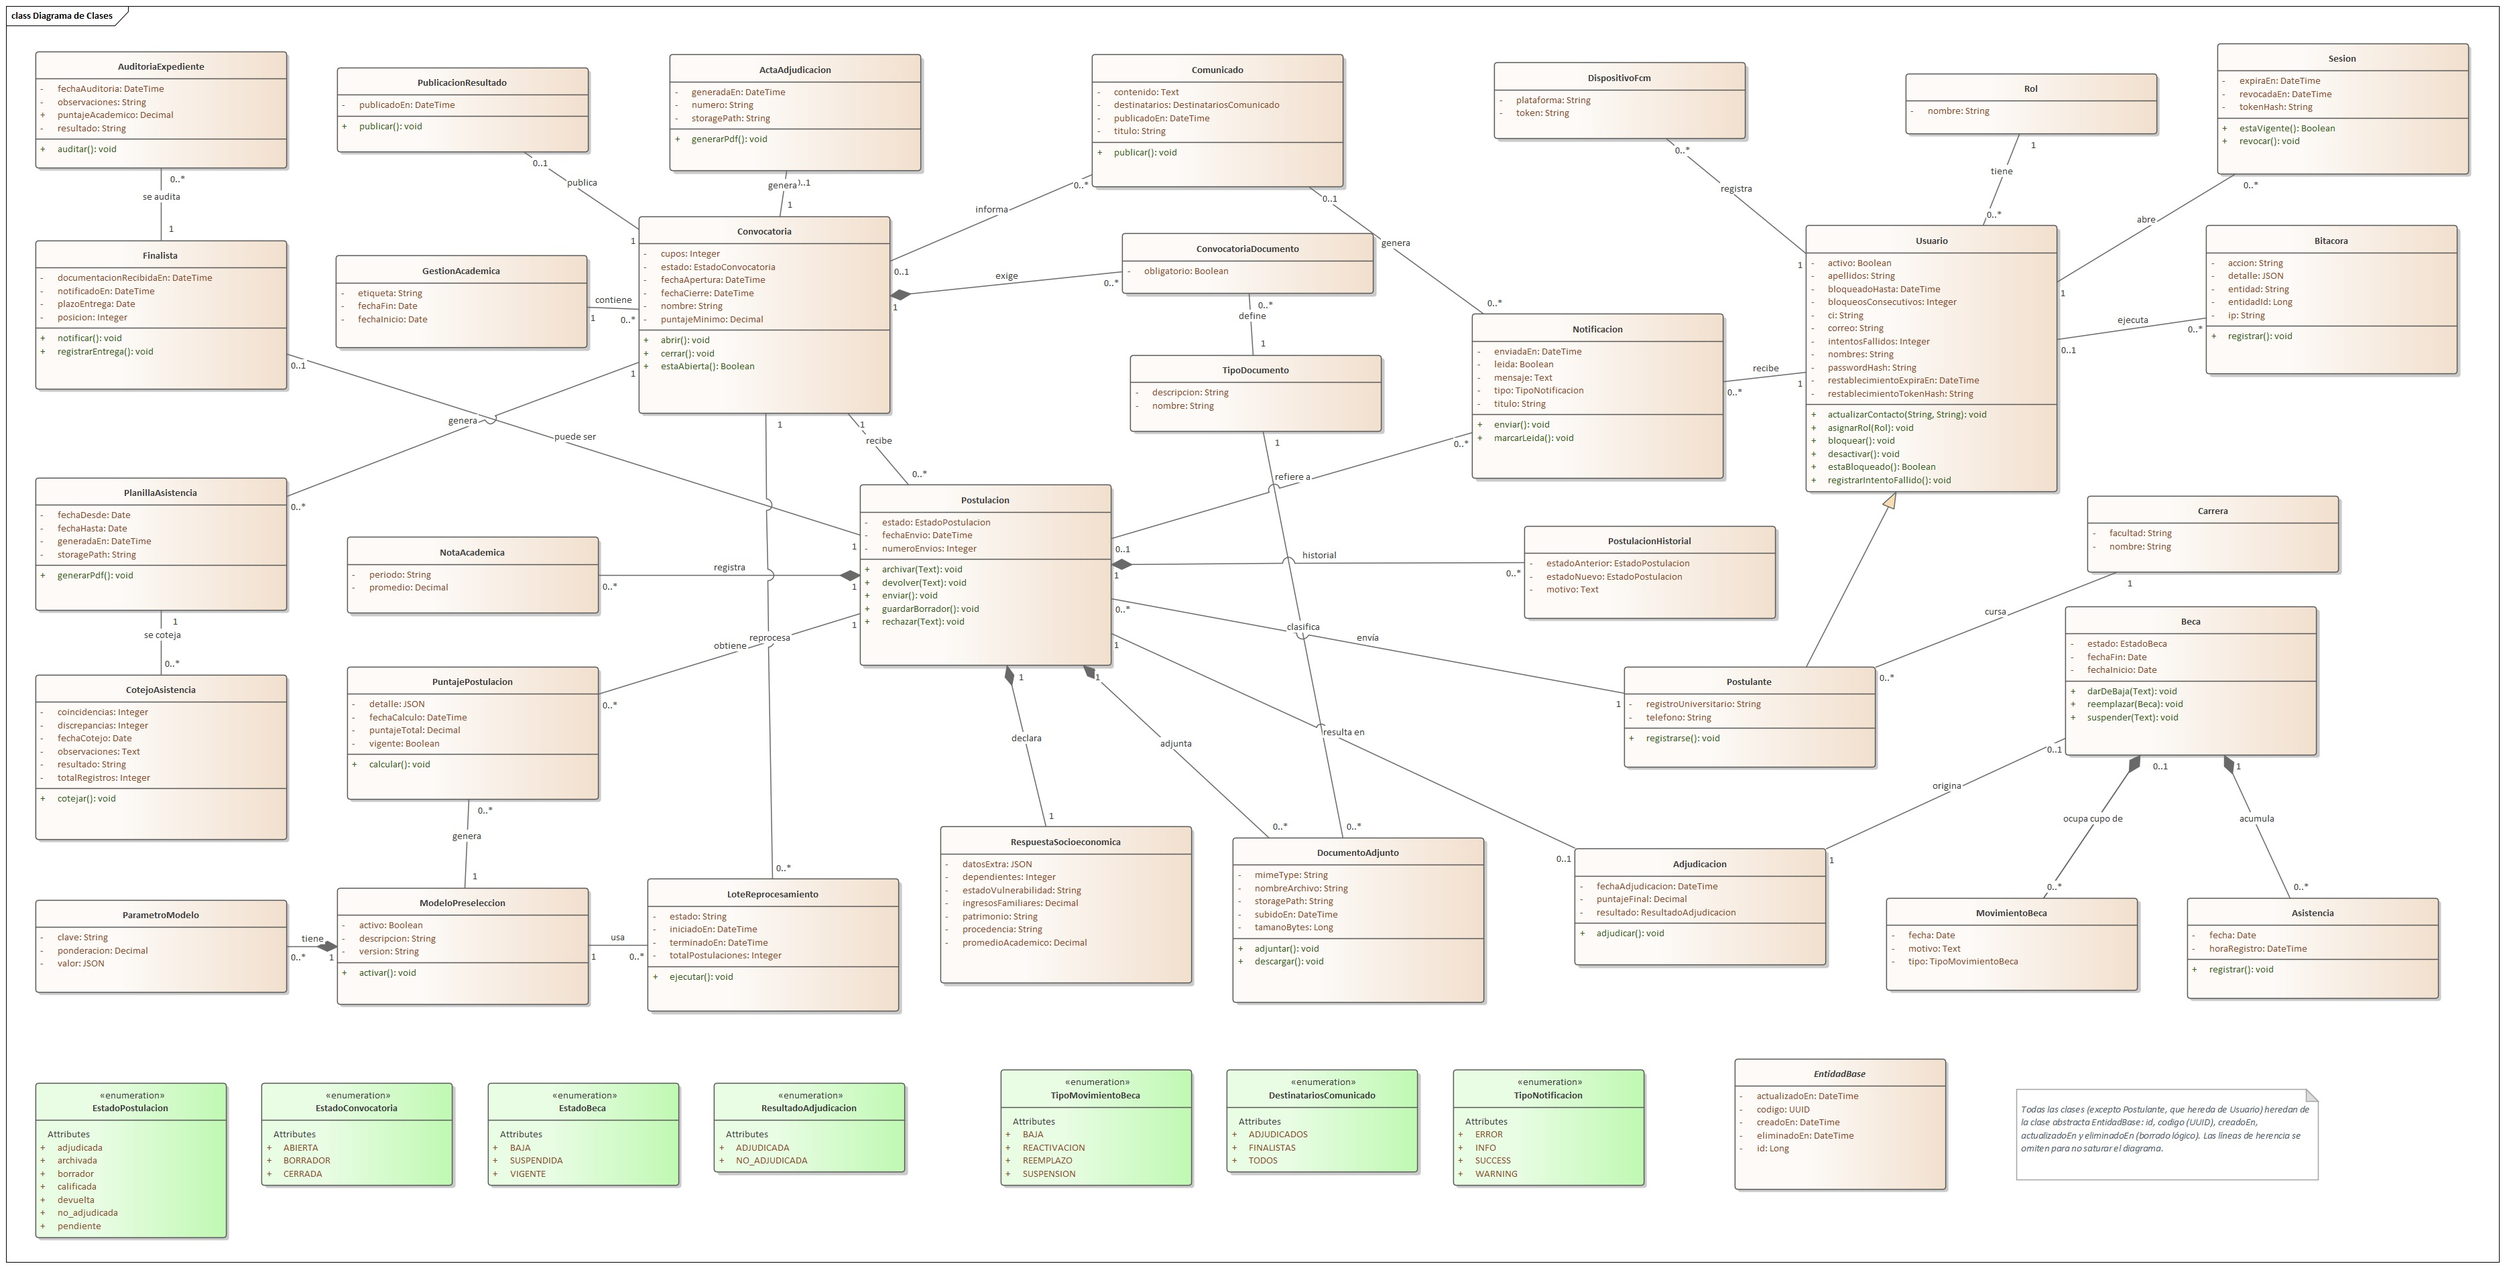
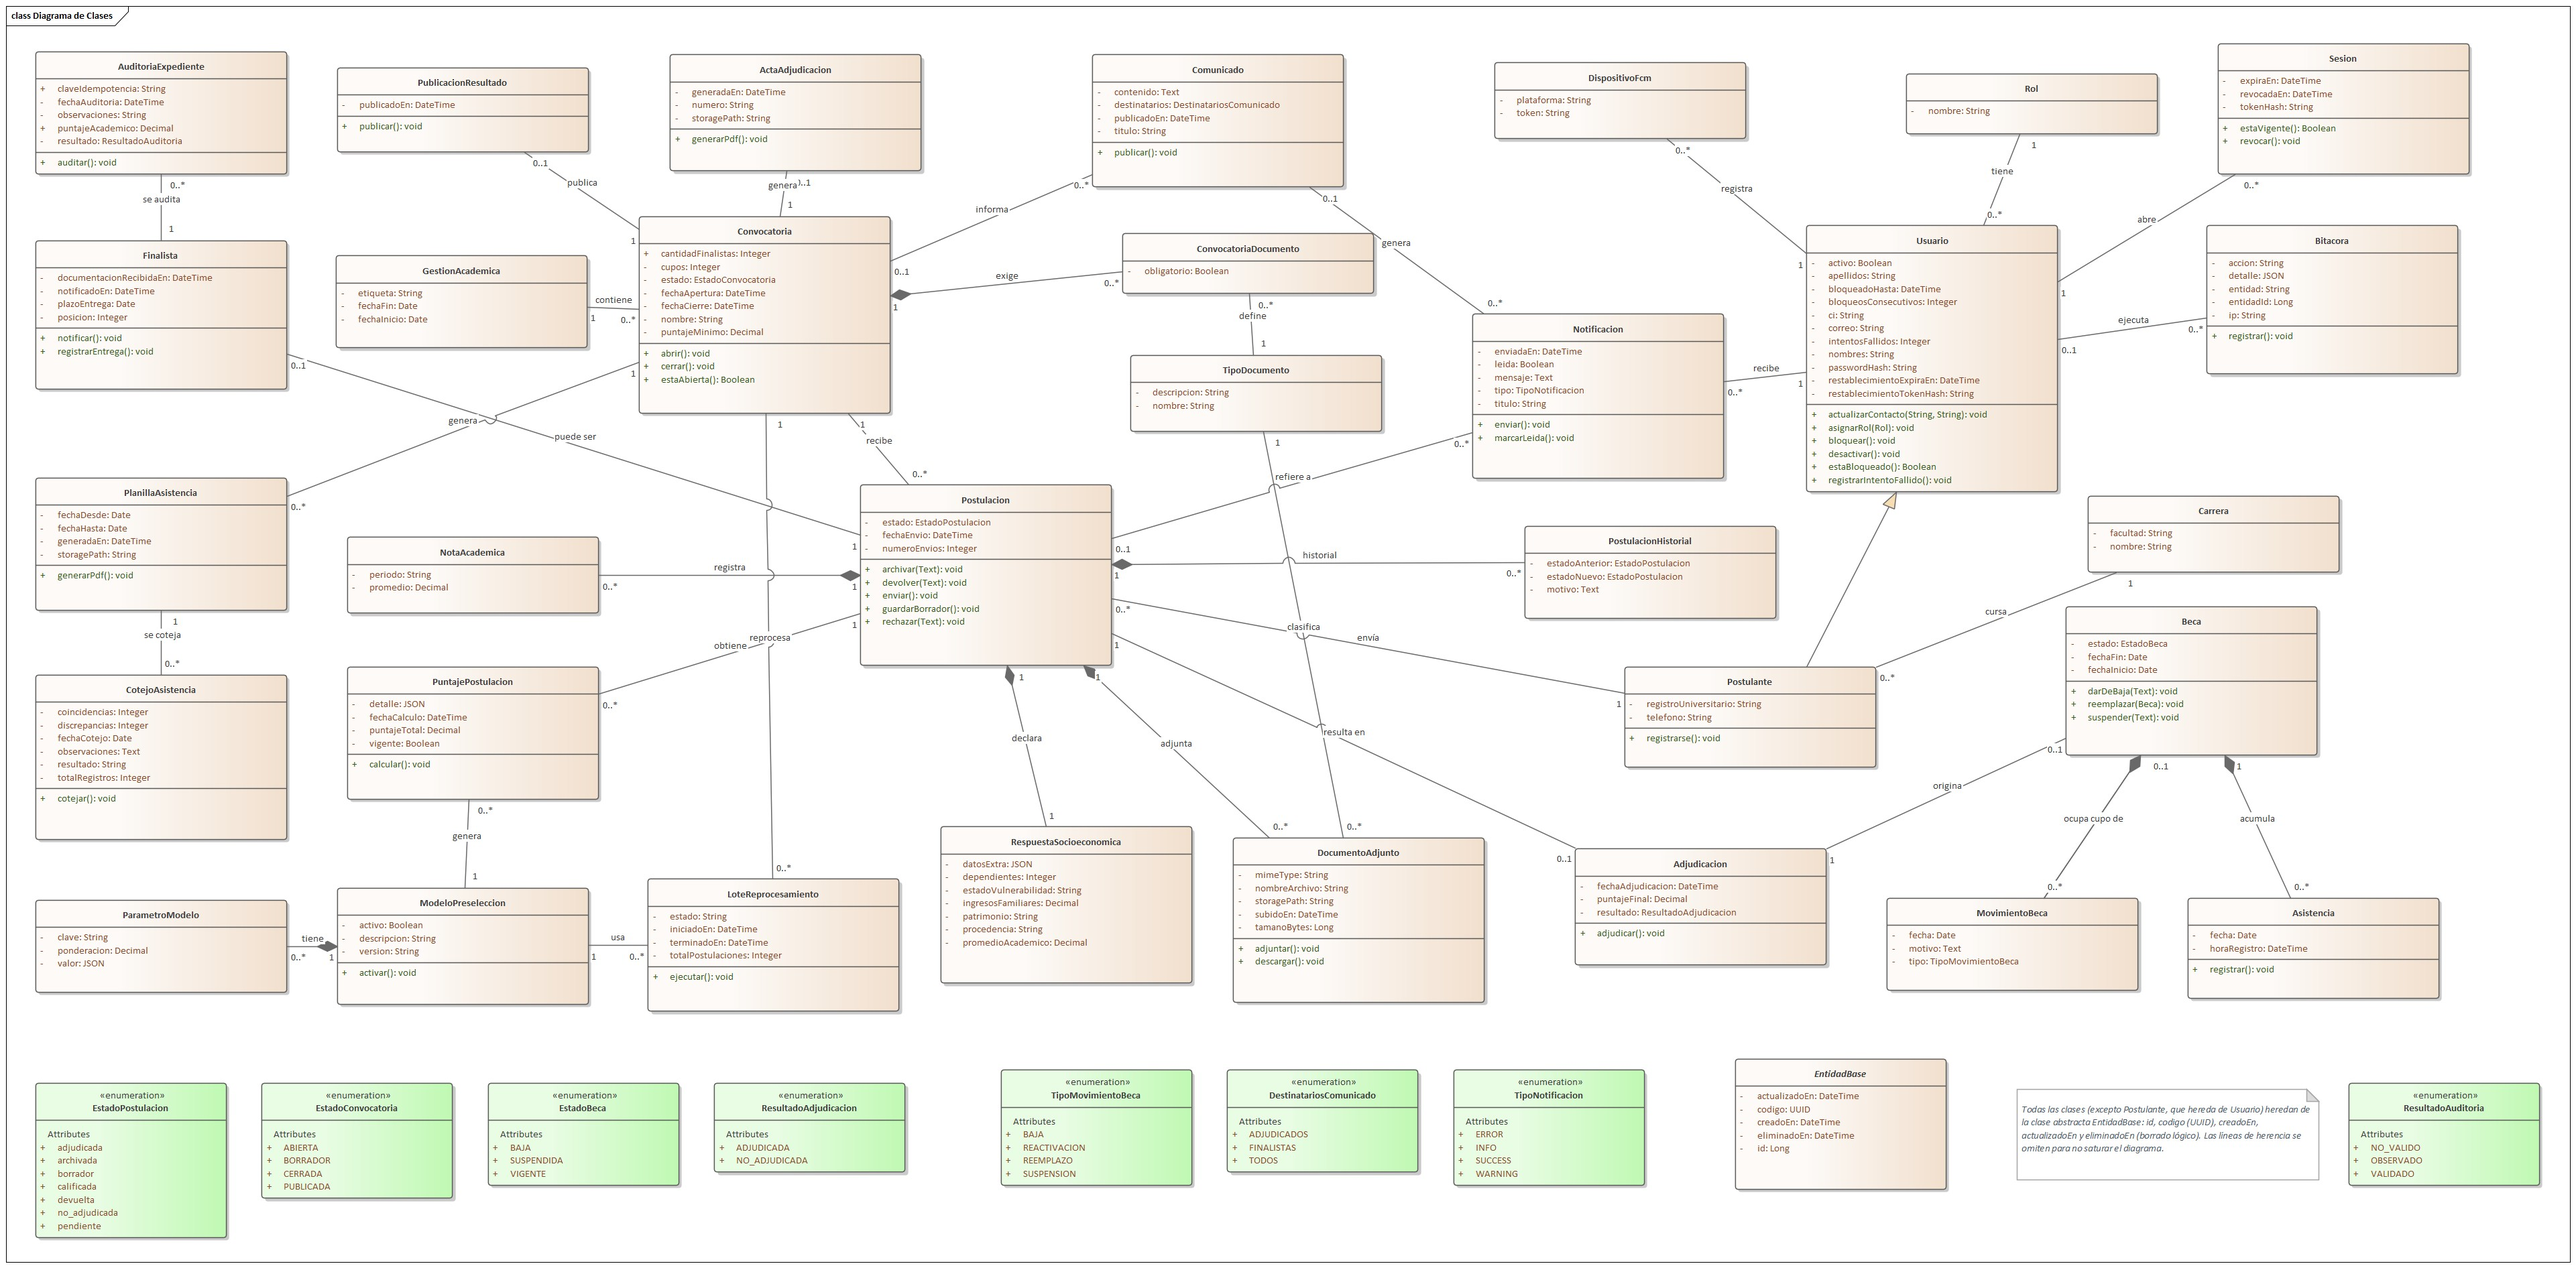
docs[DOCS]: Alinear el diseño de la base de datos con las migraciones (clave de idempotencia, longitudes, enum de auditoría, PUBLICADA, cantidad de finalistas) y reexportar clases y diseño lógico desde EA

diff --git a/diseno_base_de_datos.md b/diseno_base_de_datos.md
@@ -207,7 +207,7 @@ erDiagram
                         varchar storage_path }
 ```
 
-**`gestion_academica`**: `id`, `etiqueta` (UQ, p. ej. «2026-II» **[formato por definir]**), `fecha_inicio`, `fecha_fin`.
+**`gestion_academica`**: `id`, `etiqueta` (`varchar(50)`, UQ, p. ej. «2026-II» **[formato por definir]**), `fecha_inicio`, `fecha_fin` (`CHECK (fecha_fin > fecha_inicio)`).
 
 **`convocatoria`** (CU-13)
 
@@ -219,7 +219,8 @@ erDiagram
 | fecha_apertura / fecha_cierre | timestamptz | NN, CHECK (cierre > apertura) | el sistema solo recibe envíos con convocatoria `ABIERTA` |
 | cupos | int | CHECK (cupos > 0) | **[número por definir; ~900 según presupuesto]** |
 | puntaje_minimo | numeric(5,2) | CHECK (0–100) | umbral de adjudicación **[por definir con la DUBSS]** |
-| estado | enum `estado_convocatoria` | NN | `BORRADOR`, `ABIERTA`, `CERRADA` |
+| cantidad_finalistas | int | CHECK (> 0), nulo | cuántos finalistas se eligen en el CU-05 (propuesta por defecto; solo la ve el Administrador; la escribe el CU-13) |
+| estado | enum `estado_convocatoria` | NN | `BORRADOR`, `ABIERTA`, `CERRADA`, `PUBLICADA` (al publicar los resultados, CU-22) |
 | creado_por | bigint | FK→usuario | |
 
 Regla: **una sola convocatoria vigente por gestión** → índice único parcial `UNIQUE (gestion_id) WHERE estado = 'ABIERTA'`.
@@ -251,7 +252,7 @@ Regla: **una sola convocatoria vigente por gestión** → índice único parcial
 | procedencia | varchar(150) | |
 | patrimonio | varchar(255) | descripción o categoría **[por definir]** |
 | estado_vulnerabilidad | varchar(50) | categoría declarada **[catálogo por definir]** |
-| promedio_academico | numeric(5,2) | CHECK (0–100) **[escala por definir]** |
+| promedio_academico | numeric(5,2) | **[escala por definir]**; el rango 0–100 se valida en el servicio (la tabla aún no lleva `CHECK`, se agrega con el CU-02) |
 | datos_extra | jsonb | variables adicionales sin migrar el esquema |
 
 **`nota_academica`** (entidad del modelo de dominio): `id`, `postulacion_id` FK, `periodo`, `promedio`. `UNIQUE (postulacion_id, periodo)`.
@@ -266,7 +267,7 @@ Regla: **una sola convocatoria vigente por gestión** → índice único parcial
 | nombre_archivo | varchar(255) | NN | |
 | storage_path | varchar(500) | NN | ruta del objeto en MinIO |
 | mime_type | varchar(100) | NN | formatos permitidos **[por definir]** |
-| tamano_bytes | bigint | CHECK (> 0) | tamaño máximo **[por definir]** |
+| tamano_bytes | bigint | CHECK (>= 0) | tamaño máximo **[por definir]** |
 | subido_en | timestamptz | NN | |
 
 **`postulacion_historial`** (CU-02, CU-19, CU-20, CU-05; base del estado visible en CU-04)
@@ -309,7 +310,7 @@ erDiagram
                            varchar estado }
 ```
 
-**`modelo_preseleccion`**: `id`, `version` (UQ), `descripcion`, `activo` (boolean; solo uno `true` → índice único parcial), `creado_por`.
+**`modelo_preseleccion`**: `id`, `version` (`varchar(50)`, UQ), `descripcion`, `activo` (boolean; solo uno `true` → índice único parcial), `creado_por`.
 **`parametro_modelo`** (CU-26): `id`, `modelo_id` FK, `clave`, `ponderacion` numeric, `valor` jsonb. `UNIQUE (modelo_id, clave)`. Contenido **[criterios y ponderaciones por definir con la DUBSS]**.
 
 **`puntaje_postulacion`** (CU-03) — **historial de puntajes** (RF-03, RF-21: se conserva el anterior)
@@ -369,7 +370,7 @@ erDiagram
 | plazo_entrega | date | | **[plazo por definir con la DUBSS]** |
 | documentacion_recibida_en | timestamptz | | CU-21: registro de entrega física |
 
-**`auditoria_expediente`** (CU-07): `id`, `finalista_id` FK, `auditor_id` FK→usuario, `resultado` (`VALIDADO`, `OBSERVADO`, `NO_VALIDO`), `puntaje_academico` numeric(5,2) `CHECK` entre 0 y 30 (nulo salvo resultado `VALIDADO`), `observaciones` varchar(500), `fecha_auditoria`. El puntaje total (IA + académico) no se guarda: se calcula. Una finalista puede tener varias auditorías (p. ej. tras una devolución).
+**`auditoria_expediente`** (CU-07): `id`, `finalista_id` FK, `auditor_id` FK→usuario, `resultado` (`VALIDADO`, `OBSERVADO`, `NO_VALIDO`), `puntaje_academico` numeric(5,2) `CHECK` entre 0 y 30 (nulo salvo resultado `VALIDADO`), `observaciones` varchar(500), `fecha_auditoria`, `clave_idempotencia` uuid (nulo; la manda el cliente para que repetir la misma petición no duplique la auditoría; índice único parcial `UNIQUE (finalista_id, clave_idempotencia) WHERE clave_idempotencia IS NOT NULL`). El puntaje total (IA + académico) no se guarda: se calcula. Una finalista puede tener varias auditorías (p. ej. tras una devolución).
 > Devolver (CU-19) y archivar/rechazar (CU-20) **no tienen tabla propia**: son transiciones de estado registradas en `postulacion_historial` con su `motivo`.
 
 **`adjudicacion`** (CU-05; resultado por postulación)
@@ -379,12 +380,12 @@ erDiagram
 | id | bigint | PK | |
 | postulacion_id | bigint | FK, UQ, NN | |
 | resultado | enum | NN | `ADJUDICADA`, `NO_ADJUDICADA` |
-| puntaje_final | numeric(5,2) | | copia del puntaje vigente al decidir (inmutable) |
+| puntaje_final | numeric(5,2) | CHECK (0–100), nulo | puntaje total (IA + académico) calculado al decidir (inmutable); nulo si «No adjudicar» sobre una auditoría sin puntaje académico |
 | decidido_por | bigint | FK→usuario, NN | |
 | fecha_adjudicacion | timestamptz | NN | entidad `BecaComedor.fecha de adjudicación` del dominio |
 
 **`acta_adjudicacion`** (CU-08, **pendiente de consulta**): `id`, `convocatoria_id` FK, `numero` (UQ), `storage_path` (PDF en MinIO), `generada_por`, `generada_en`.
-**`publicacion_resultado`** (CU-22): `id`, `convocatoria_id` FK (UQ), `publicado_por`, `publicado_en`. Una vez insertada, `adjudicacion` de esa convocatoria deja de ser editable (control en servicio + bitácora).
+**`publicacion_resultado`** (CU-22): `id`, `codigo_publicacion_resultado` (UUID, UQ), `convocatoria_id` FK (UQ), `publicado_por` FK a `usuario`, `publicado_en` (`timestamptz`, NN) y las columnas comunes. Una fila por convocatoria; al publicar, la convocatoria pasa a `PUBLICADA` y se avisa a cada finalista con decisión (eventos `BECA_ADJUDICADA` y `BECA_NO_ADJUDICADA`). Una vez insertada, `adjudicacion` de esa convocatoria deja de ser editable (control en servicio + bitácora).
 
 **`comunicado`** (CU-21, fusionado con avisos): `id`, `convocatoria_id` FK (nullable), `titulo`, `contenido` text, `destinatarios` (`TODOS`, `FINALISTAS`, `ADJUDICADOS`), `publicado_por`, `publicado_en`.
 
@@ -400,7 +401,7 @@ erDiagram
 | leida | boolean NN default false | consultable desde la app |
 | enviada_en | timestamptz | NULL si falló el push |
 
-**`dispositivo_fcm`**: `id`, `usuario_id` FK, `token` (UQ), `plataforma` (`ANDROID`, `IOS`, `WEB`).
+**`dispositivo_fcm`**: `id`, `usuario_id` FK, `token` (`varchar(512)`, UQ parcial), `plataforma` (`varchar(20)`: `ANDROID`, `IOS`, `WEB`; los valores los valida el backend con un enum Java, la tabla no lleva `CHECK`).
 
 ---
 
@@ -492,11 +493,12 @@ Sin `UPDATE`/`DELETE` para el rol de la aplicación (`REVOKE UPDATE, DELETE ON b
 | Enum | Valores | Observación |
 |---|---|---|
 | `estado_postulacion` | `borrador`*, `pendiente`, `devuelta`, `archivada`, `calificada`, `adjudicada`, `no_adjudicada` | Los seis últimos vienen del modelo de dominio. `*borrador` es adición por CU-17 (Q1). RF-06 usa otra nomenclatura (recibida, en evaluación, finalista…): **unificar** (Q2). |
-| `estado_convocatoria` | `BORRADOR`, `ABIERTA`, `CERRADA` | |
+| `estado_convocatoria` | `BORRADOR`, `ABIERTA`, `CERRADA`, `PUBLICADA` | `PUBLICADA` la fija el CU-22 al publicar los resultados |
 | `estado_beca` | `VIGENTE`, `SUSPENDIDA`, `BAJA` | RF-19 |
 | `resultado_adjudicacion` | `ADJUDICADA`, `NO_ADJUDICADA` | |
 | `tipo_movimiento_beca` | `BAJA`, `SUSPENSION`, `REACTIVACION`, `REEMPLAZO` | |
 | `destinatarios_comunicado` | `TODOS`, `FINALISTAS`, `ADJUDICADOS` | |
+| `resultado_auditoria` | `VALIDADO`, `OBSERVADO`, `NO_VALIDO` | resultado de `auditoria_expediente` (CU-07); tipo `enum` nativo de PostgreSQL |
 
 **Ciclo de vida de `postulacion.estado`**
 
@@ -529,9 +531,9 @@ stateDiagram-v2
 | Asistencia idempotente | `UNIQUE (beca_id, fecha)` |
 | Padrón vigente | `beca (convocatoria_id, estado)` |
 | Búsqueda de usuarios | `usuario (ci)`, `usuario (correo)` (ya únicos) |
-| Notificaciones no leídas | `notificacion (usuario_id, leida, creado_en DESC)` |
-| Reglas de negocio en BD | `CHECK` de rangos (puntajes 0–100, fechas, cupos > 0). Las reglas con estados (p. ej. «publicar solo si todas las adjudicaciones están decididas», «motivo obligatorio al archivar») se validan en la capa de servicio con transacción. |
-| Integridad referencial | `ON DELETE RESTRICT` en general; no se borran postulaciones ni usuarios (se archivan / desactivan). al eliminar un **borrador** se marca `eliminado_en` (en cascada, desde el servicio) en `documento_adjunto` y `respuesta_socioeconomica`; no hay `DELETE` físico (§1.1). |
+| Notificaciones no leídas | `notificacion (usuario_id, creado_en DESC)` (parcial, `WHERE eliminado_en IS NULL`) |
+| Reglas de negocio en BD | `CHECK` de rangos (puntaje de la IA 0–70, puntaje académico 0–30, puntaje mínimo y final 0–100, fechas, cupos > 0). Las reglas con estados (p. ej. «publicar solo si todas las adjudicaciones están decididas», «motivo obligatorio al archivar») se validan en la capa de servicio con transacción. |
+| Integridad referencial | claves foráneas sin `ON DELETE CASCADE` (la base las crea con la acción por defecto `NO ACTION`, que rechaza el borrado igual que `RESTRICT`); no se borran postulaciones ni usuarios (se archivan / desactivan). al eliminar un **borrador** se marca `eliminado_en` (en cascada, desde el servicio) en `documento_adjunto` y `respuesta_socioeconomica`; no hay `DELETE` físico (§1.1). |
 
 ---
 
